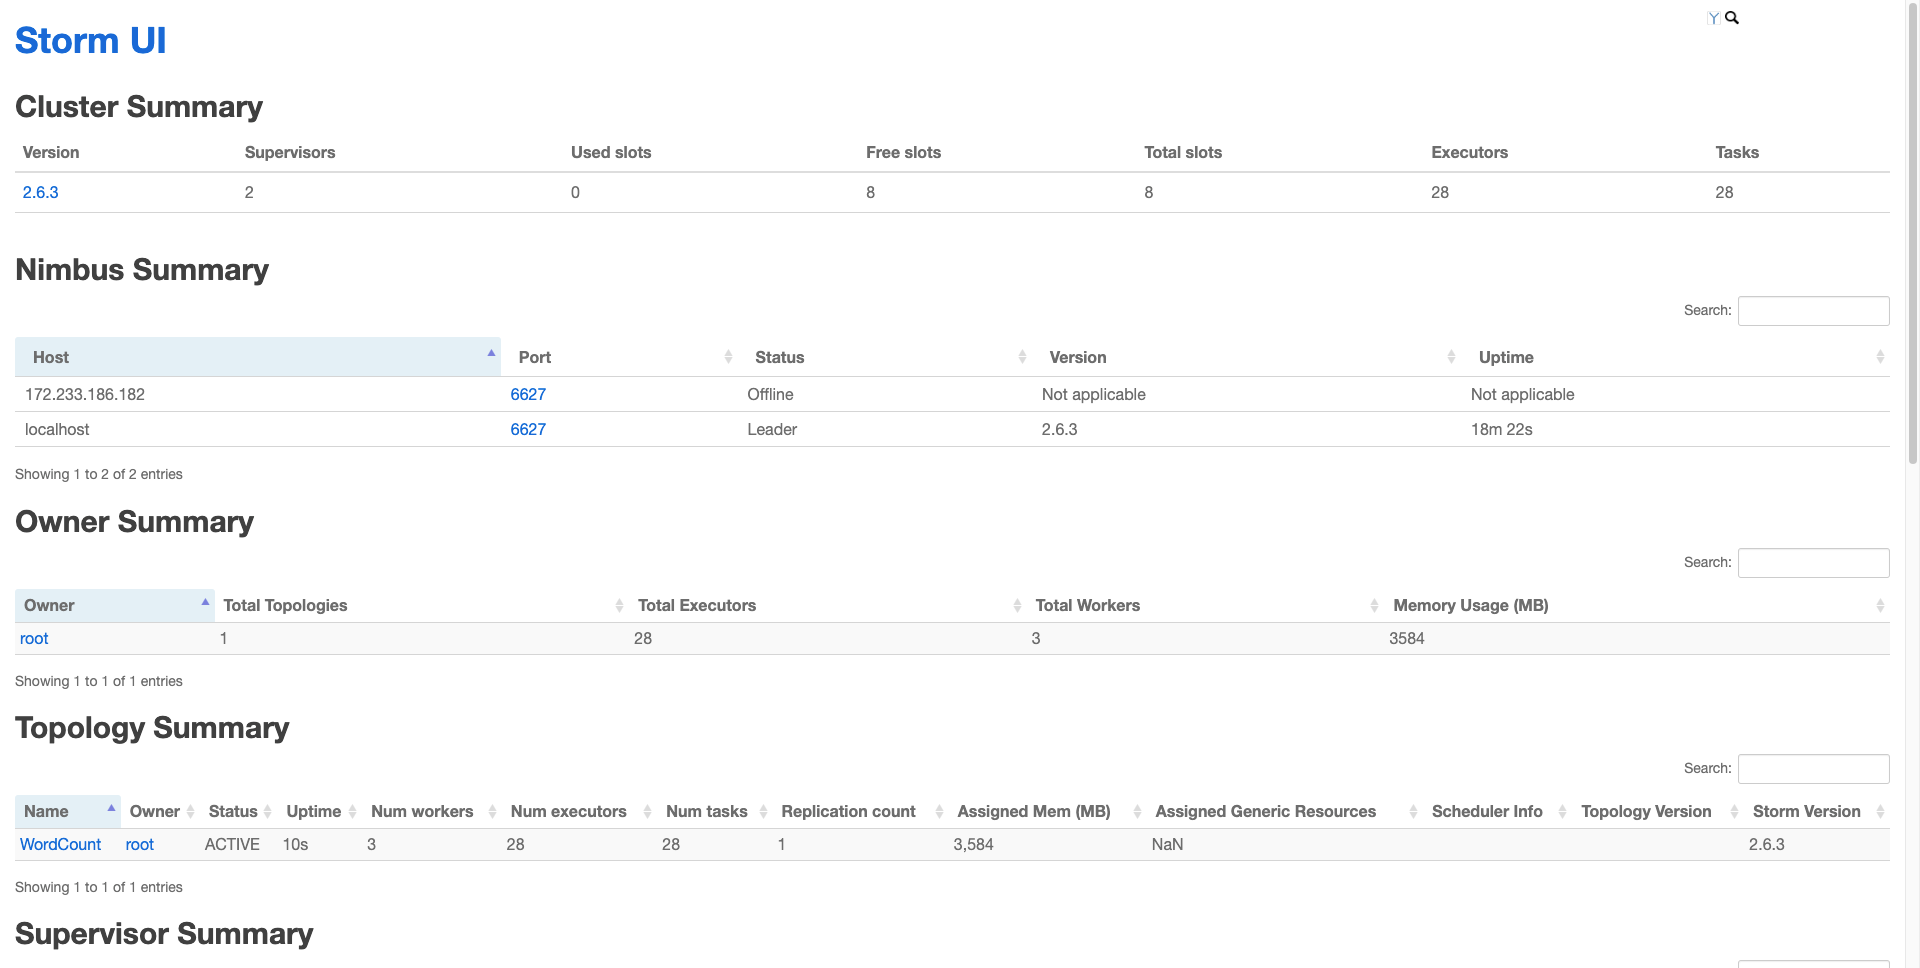
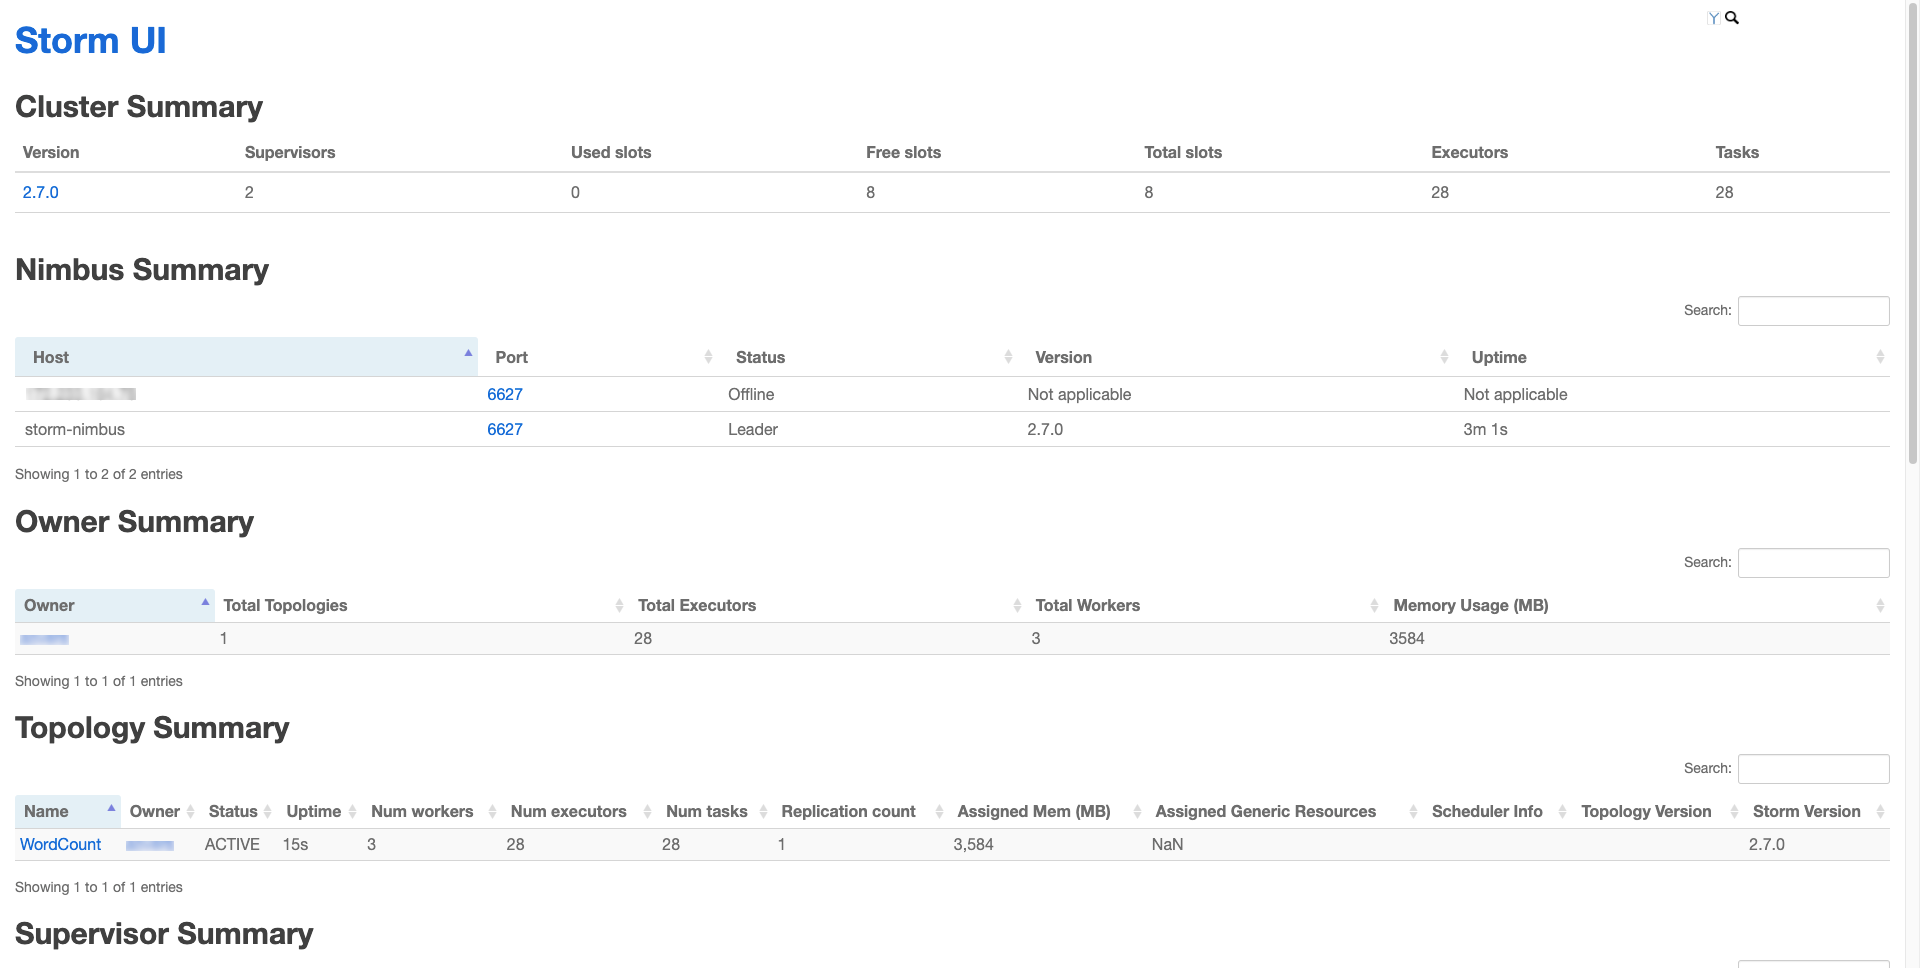
Tech Edit 4

diff --git a/docs/guides/applications/big-data/process-streams-in-realtime-with-apache-storm/index.md b/docs/guides/applications/big-data/process-streams-in-realtime-with-apache-storm/index.md
@@ -36,45 +36,33 @@ This guide discusses key concepts and terminology associated with Apache Storm, 
 
 -   **ZooKeeper**: [Apache ZooKeeper](https://zookeeper.apache.org/) acts as a centralized server that helps manage and coordinate services for distributed applications. In this guide, ZooKeeper is installed on a separate, single node, however [ZooKeeper clusters](https://zookeeper.apache.org/doc/r3.3.3/zookeeperAdmin.html) can be configured for larger workloads.
 
-## Cluster Setup
+## Before You Begin
 
-Using the instructions in our [Creating a Compute Instance](/docs/products/compute/compute-instances/guides/create/) guide and specifications below, create the **four** necessary instances to run an Apache Storm cluster (one for ZooKeeper, one for Nimbus, and two Storm Supervisors):
+1.  Using the instructions in our [Creating a Compute Instance](/docs/products/compute/compute-instances/guides/create/) guide and specifications below, create the **four** necessary instances to run an Apache Storm cluster (one for ZooKeeper, one for Nimbus, and two Storm Supervisors):
 
--   **Images**: Use the latest Long Term Support (LTS) version of Ubuntu available for all nodes. The examples in this guide use **Ubuntu 24.04 LTS**.
+    -   **Images**: Use the latest Long Term Support (LTS) version of Ubuntu available for all nodes. The examples in this guide use **Ubuntu 24.04 LTS**.
 
--   **Region**: Choose the geographic region best suited for your use case. The examples in this guide use the **Miami** (`us-mia`) region.
+    -   **Region**: Choose the geographic region best suited for your use case. The examples in this guide use the **Miami** (`us-mia`) region.
 
--   **Linode Plan**: Below are the minimum specifications recommended for each node:
+    -   **Linode Plan**: Below are the minimum specifications recommended for each node:
 
-    -   **ZooKeeper Node**: Linode Shared 2 GB
-    -   **Nimbus Node**: Linode Shared 4 GB
-    -   **Storm Supervisor Node 1**: Linode Shared 4 GB
-    -   **Storm Supervisor Node 2**: Linode Shared 4 GB
+        -   **ZooKeeper Node**: Linode Shared 2 GB
+        -   **Nimbus Node**: Linode Shared 4 GB
+        -   **Storm Supervisor Node 1**: Linode Shared 4 GB
+        -   **Storm Supervisor Node 2**: Linode Shared 4 GB
 
--   **Linode Label** Enter a descriptive label for each instance. The examples in this guide use the following:
+    -   **Linode Label** Enter a descriptive label for each instance. The examples in this guide use the following:
 
-    -   **ZooKeeper Node**: `storm-zoo`
-    -   **Nimbus Node**: `storm-nimbus`
-    -   **Storm Supervisor Node 1**: `storm-super-1`
-    -   **Storm Supervisor Node 2**: `storm-super-2`
+        -   **ZooKeeper Node**: `storm-zoo`
+        -   **Nimbus Node**: `storm-nimbus`
+        -   **Storm Supervisor Node 1**: `storm-super-1`
+        -   **Storm Supervisor Node 2**: `storm-super-2`
 
-Once deployed, connect to your new instances via SSH using separate terminal sessions on your local machine. Replace each {{< placeholder "IP_ADDRESS" >}} with the **Public IP Address** of the respective instance:
+1.  Once deployed, follow our [Setting Up and Securing a Compute Instance](/docs/products/compute/compute-instances/guides/set-up-and-secure/) guide to update your system. You may also wish to set the timezone, configure your hostname, create a limited user account, and harden SSH access.
 
-```command {title="Local machine to ZooKeeper instance"}
-ssh root@{{< placeholder "storm-zoo_IP_ADDRESS" >}}
-```
-
-```command {title="Local machine to Numbus instance"}
-ssh root@{{< placeholder "storm-nimbus_IP_ADDRESS" >}}
-```
-
-```command {title="Local machine to Supervisor Node 1"}
-ssh root@{{< placeholder "storm-super-1_IP_ADDRESS" >}}
-```
-
-```command {title="Local machine to Supervisor Node 2"}
-ssh root@{{< placeholder "storm-super-2_IP_ADDRESS" >}}
-```
+{{< note >}}
+This guide is written for a non-root user. Commands that require elevated privileges are prefixed with `sudo`. If you’re not familiar with the `sudo` command, see the [Users and Groups](/docs/guides/linux-users-and-groups/) guide.
+{{< /note >}}
 
 {{< note title="This cluster is recommended for testing environments" >}}
 The example cluster in this guide is recommended for development and testing, but it is **not** recommended for production systems. It can be expanded later using the necessary redundancies such as additional ZooKeeper and Nimbus instances, and tools like [**supervisord**](http://supervisord.org/).
@@ -86,22 +74,10 @@ Both Python and Java are prerequisites for Storm and ZooKeeper. Ubuntu 24.04 LTS
 
 On each deployed instance, follow the steps below to install Java.
 
-1.  Update the package manager, upgrade the packages, and reboot the instance:
-
-    ```command {title="storm-zoo, storm-nimbus, storm-super-1, and storm-super-2"}
-    apt update && apt upgrade && reboot
-    ```
-
-1.  One the reboot is complete, reconnect to the instance via SSH from your local machine:
-
-    ```command {title="Local machine to each instance"}
-    ssh root@{{< placeholder "IP_ADDRESS" >}}
-    ```
-
 1.  Install the Java Development Kit (JDK):
 
     ```command {title="storm-zoo, storm-nimbus, storm-super-1, and storm-super-2"}
-    apt install default-jdk
+    sudo apt install default-jdk
     ```
 
 1.  Display the installed version to verify the Java installation:
@@ -132,42 +108,36 @@ Follow the steps in this section to install ZooKeeper on the `storm-zoo` instanc
     tar -zxvf apache-zookeeper-{{< placeholder "3.8.4" >}}-bin.tar.gz
     ```
 
-1.  Move the extracted directory to `/opt/zookeeper`:
-
-    ```command {title="storm-zoo"}
-    mv apache-zookeeper-{{< placeholder "3.8.4" >}}-bin /opt/zookeeper
-    ```
-
 1.  Create a `zoo.cfg` ZooKeeper configuration file:
 
     ```command {title="storm-zoo"}
-    nano /opt/zookeeper/conf/zoo.cfg
+    nano ~/apache-zookeeper-{{< placeholder "3.8.4" >}}-bin/conf/zoo.cfg
     ```
 
     Give the file the following content, and save your changes:
 
     ```file {title="/opt/zookeeper/conf/zoo.cfg"}
     tickTime=2000
-    dataDir=/var/zookeeper
+    dataDir=~/apache-zookeeper-{{< placeholder "3.8.4" >}}-bin/data
     clientPort=2181
     ```
 
 1.  Create the `/var/zookeeper` directory for data:
 
     ```command {title="storm-zoo"}
-    mkdir /var/zookeeper
+    mkdir ~/apache-zookeeper-{{< placeholder "3.8.4" >}}-bin/data
     ```
 
 1.  Start ZooKeeper:
 
     ```command {title="storm-zoo"}
-    /opt/zookeeper/bin/zkServer.sh start
+    ~/apache-zookeeper-{{< placeholder "3.8.4" >}}-bin/bin/zkServer.sh start
     ```
 
     ```output
     /usr/bin/java
     ZooKeeper JMX enabled by default
-    Using config: /opt/zookeeper/bin/../conf/zoo.cfg
+    Using config: /home/{{< placeholder "USERNAME" >}}/apache-zookeeper-{{< placeholder "3.8.4" >}}-bin/bin/../conf/zoo.cfg
     Starting zookeeper ... STARTED
     ```
 
@@ -193,12 +163,6 @@ This section provides instructions for downloading and installing Apache Storm o
     tar -zxvf apache-storm-{{< placeholder "2.7.0" >}}.tar.gz
     ```
 
-1.  Move the extracted directories to `/opt/storm`:
-
-    ```command {title="storm-nimbus, storm-super-1, and storm-super-2"}
-    mv apache-storm-{{< placeholder "2.7.0" >}} /opt/storm
-    ```
-
 1.  Open your `.bashrc` file:
 
     ```command {title="storm-nimbus, storm-super-1, and storm-super-2"}
@@ -209,7 +173,7 @@ This section provides instructions for downloading and installing Apache Storm o
 
     ```file {title="~/.bashrc"}
     #Set PATH for Storm
-    export PATH="/opt/storm/bin:$PATH"
+    export PATH="$HOME/apache-storm-{{< placeholder "2.7.0" >}}/bin:$PATH"
     ```
 
     Apply the changes to `.bashrc`:
@@ -225,10 +189,10 @@ This section provides instructions for downloading and installing Apache Storm o
     ```
 
     ```output
-    Running: java -client -Ddaemon.name= -Dstorm.options= -Dstorm.home=/opt/storm -Dstorm.log.dir=/opt/storm/logs -Djava.library.path=/usr/local/lib:/opt/local/lib:/usr/lib:/usr/lib64 -Dstorm.conf.file= -cp /opt/storm/*:/opt/storm/lib/*:/opt/storm/extlib/*:/opt/storm/extlib-daemon/*:/opt/storm/conf org.apache.storm.utils.VersionInfo
-    Storm 2.7.0
+    Running: java -client -Ddaemon.name= -Dstorm.options= -Dstorm.home=/home/{{< placeholder "USERNAME" >}}/apache-storm-{{< placeholder "2.7.0" >}} -Dstorm.log.dir=/home/{{< placeholder "USERNAME" >}}/apache-storm-{{< placeholder "2.7.0" >}}/logs -Djava.library.path=/usr/local/lib:/opt/local/lib:/usr/lib:/usr/lib64 -Dstorm.conf.file= -cp /home/{{< placeholder "USERNAME" >}}/apache-storm-{{< placeholder "2.7.0" >}}/*:/home/{{< placeholder "USERNAME" >}}/apache-storm-{{< placeholder "2.7.0" >}}/lib/*:/home/{{< placeholder "USERNAME" >}}/apache-storm-{{< placeholder "2.7.0" >}}/extlib/*:/home/{{< placeholder "USERNAME" >}}/apache-storm-{{< placeholder "2.7.0" >}}/extlib-daemon/*:/home/{{< placeholder "USERNAME" >}}/apache-storm-{{< placeholder "2.7.0" >}}/conf org.apache.storm.utils.VersionInfo
+    Storm {{< placeholder "2.7.0" >}}
     URL https://{{< placeholder "TOKEN" >}}@github.com/apache/storm.git -r b95a7f25a114ae7fb9c23cbc2979d3cfff09fa73
-    Branch v2.7.0
+    Branch v{{< placeholder "2.7.0" >}}
     Compiled by rui on 2024-10-11T17:28Z
     From source with checksum dcefb62616ea3f989d583d962257084
     ```
@@ -240,7 +204,7 @@ The `storm.yaml` configuration file specifies the local directory for Storm's op
 1.  Open the `storm.yaml` file on the `storm-nimbus`, `storm-super-1`, and `storm-super-2` instances:
 
     ```command {title="storm-nimbus, storm-super-1, and storm-super-2"}
-    nano /opt/storm/conf/storm.yaml
+    nano ~/apache-storm-{{< placeholder "2.7.0" >}}/conf/storm.yaml
     ```
 
     Add the following lines to the end of the file. Replace {{< placeholder "storm-zoo_IP_ADDRESS" >}} with the IP address for your `storm-zoo` instance and {{< placeholder "storm-nimbus_IP_ADDRESS" >}} with the IP address for your `storm-nimbus` instance.
@@ -249,17 +213,17 @@ The `storm.yaml` configuration file specifies the local directory for Storm's op
     storm.zookeeper.servers:
       - "{{< placeholder "storm-zoo_IP_ADDRESS" >}}"
     nimbus.seeds: ["{{< placeholder "storm-nimbus_IP_ADDRESS" >}}"]
-    storm.local.dir: "/var/storm"
+    storm.local.dir: "~/apache-data"
     ```
 
     This defines the IP addresses of the ZooKeeper and Nimbus instances and sets the `/var/storm` directory for Storm's state and temporary files. Refer to the [Storm Setup Guide](https://github.com/apache/storm/blob/master/docs/Setting-up-a-Storm-cluster.md#fill-in-mandatory-configurations-into-stormyaml) for more details.
 
     When done, save your changes.
 
-1.  On your `storm-zoo` instance, create the `/var/storm` directory for Storm's application data:
+1.  On your `storm-zoo` instance, create the `~/storm-data` directory for Storm's application data:
 
     ```command {title="storm-zoo"}
-    mkdir /var/storm
+    mkdir ~/storm-data
     ```
 
 ## Start Storm
@@ -267,14 +231,14 @@ The `storm.yaml` configuration file specifies the local directory for Storm's op
 1.  On the `storm-super-1` and `storm-super-2` instances, execute the following command to run Storm as a Supervisor daemon:
 
     ```command {title="storm-super-1 & storm-super-2"}
-    /opt/storm/bin/storm supervisor &
+    storm supervisor &
     ```
 
 1.  On the `storm-nimbus` instance, execute the following commands to run Storm as a nimbus daemon and run the Storm UI web server:
 
     ```command {title="storm-nimbus"}
-    /opt/storm/bin/storm nimbus &
-    /opt/storm/bin/storm ui &
+    storm nimbus &
+    storm ui &
     ```
 
 1.  Open a web browser on your local machine and navigate to port `8080` of the `storm-nimbus` instance's public IP address:
@@ -300,13 +264,7 @@ The site above shows no topologies, and therefore has no message streams. The [`
 1.  Unpack the downloaded archive file:
 
     ```command {title="storm-nimbus"}
-    tar xzvf apache-maven-3.9.9-bin.tar.gz
-    ```
-
-1.  Move the extracted directory to `/opt/maven`:
-
-    ```command {title="storm-nimbus"}
-    sudo mv apache-maven-{{< placeholder "3.9.9" >}} /opt/maven
+    tar xzvf apache-maven-{{< placeholder "3.9.9" >}}-bin.tar.gz
     ```
 
 1.  Open your `.bashrc` file:
@@ -319,7 +277,7 @@ The site above shows no topologies, and therefore has no message streams. The [`
 
     ```file {title="~/.bashrc"}
     #Set PATH for Maven
-    export PATH="/opt/maven/bin:$PATH"
+    export PATH="$HOME/apache-maven-{{< placeholder "3.9.9" >}}/bin:$PATH"
     ```
 
     When done, press <kbd>CTRL</kbd>+<kbd>X</kbd>, followed by <kbd>Y</kbd> then <kbd>Enter</kbd> to save the file and exit `nano`.
@@ -338,16 +296,16 @@ The site above shows no topologies, and therefore has no message streams. The [`
 
     ```output
     Apache Maven 3.9.9 (8e8579a9e76f7d015ee5ec7bfcdc97d260186937)
-    Maven home: /opt/maven
+    Maven home: /home/{{< placeholder "USERNAME" >}}/apache-maven-3.9.9
     Java version: 21.0.4, vendor: Ubuntu, runtime: /usr/lib/jvm/java-21-openjdk-amd64
     Default locale: en_US, platform encoding: UTF-8
     OS name: "linux", version: "6.8.0-47-generic", arch: "amd64", family: "unix"
     ```
 
-1.  Issue the following commands to change into the `/opt/storm/examples/storm-starter` directory and build a Storm "uber JAR":
+1.  Issue the following commands to change into the `~/apache-storm-2.7.0/examples/storm-starter` directory and build a Storm "uber JAR":
 
     ```command {title="storm-nimbus"}
-    cd /opt/storm/examples/storm-starter
+    cd ~/apache-storm-{{< placeholder "2.7.0" >}}/examples/storm-starter
     mvn package
     ```
 
@@ -359,7 +317,7 @@ The site above shows no topologies, and therefore has no message streams. The [`
     ...
     ```
 
-    The JAR file you built is located at `/opt/storm/examples/storm-starter/target/storm-starter-{{< placeholder "2.7.0">}}.jar`.
+    The JAR file you built is located at `~/apache-storm-{{< placeholder "2.7.0" >}}/examples/storm-starter/target/storm-starter-{{< placeholder "2.7.0">}}.jar`.
 
 ## Submit the Example Topology
 
@@ -368,7 +326,7 @@ The [`storm jar`](https://github.com/apache/storm/blob/master/examples/storm-sta
 1.  On the `storm-nimbus` instance, use the following command to submit the `WordCount` topology:
 
     ```command {title="storm-nimbus"}
-    storm jar /opt/storm/examples/storm-starter/target/storm-starter-{{< placeholder "2.7.0">}}.jar org.apache.storm.starter.WordCountTopology WordCount
+    storm jar ~/apache-storm-{{< placeholder "2.7.0" >}}/examples/storm-starter/target/storm-starter-{{< placeholder "2.7.0">}}.jar org.apache.storm.starter.WordCountTopology WordCount
     ```
 
 1.  On your local machine, return to your web browser and refresh the page located at port `8080` of the `storm-nimbus` instance:
